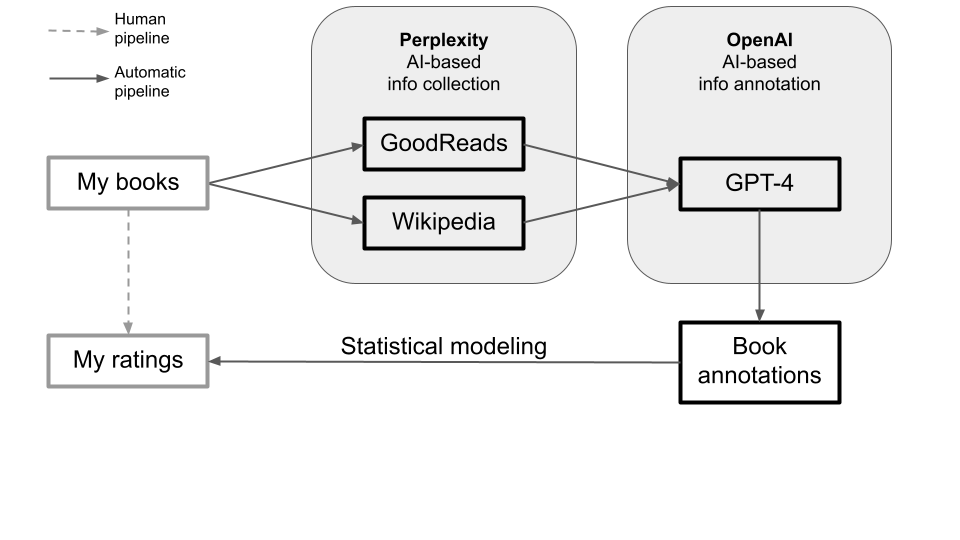
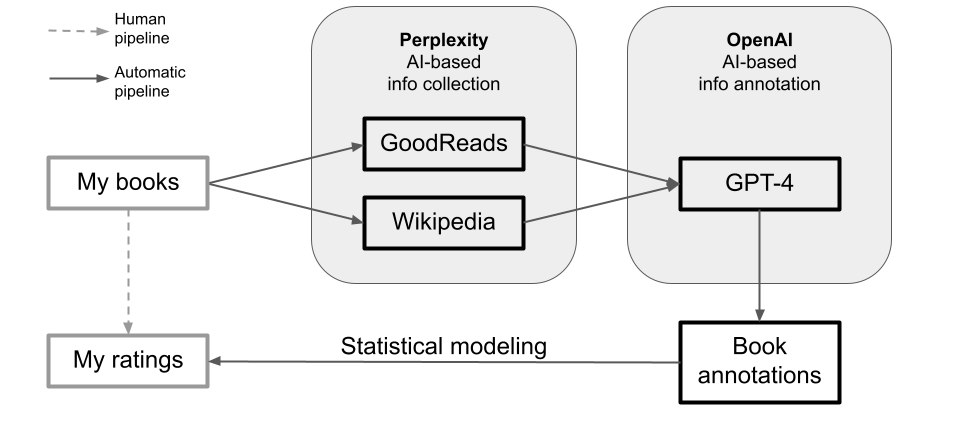
plot replaced

diff --git a/_posts/2025-02-02-What type of books do I like.md b/_posts/2025-02-02-What type of books do I like.md
@@ -5,25 +5,25 @@ tags: [Fiction, Writing, Psychological Theory]
 excerpt: "Analyzing patterns in my own reading enjoyment"
 ---
 
-Despite keeping track of my own book ratings and writing short reviews for every book that I read (incl. DNFs), I find it difficult to pinpoint my own literary preferences.
+Despite keeping track of my own book ratings and writing short reviews for every book that I read (including DNFs), I find it difficult to pinpoint my own literary preferences.
 
-I am not alone in this as many people have no personal niche, and often struggle to decide which book would likely make for an enjoyable read.
+Like many readers, I don't thinkt that I have a preferred niche, which would make the process of finding enjoyable reads much easier.
 
 With about a hundred book ratings in my spreadsheet, I started to look for statistical patterns. Specifically, I built an AI-enhanced pipeline to discover regularities in my reading enjoyment.
 
 <img src="{{site.baseurl}}/assets/isaac_flowchart.png">
 <i>The ISAAC pipeline retrieves book-relevant information from the internet, feeds this information into an LLM prompt which outputs binary labels for a range of predetermined book dimensions (e.g., target groups, themes, attributes of main characters).</i>
 
-The AI pipeline worked very well, and I could now examine how individual book characteristics predict my reading enjoyment. Unfortunately, most effects were rather small and uncertainty remained large. This was to be expected, as many book characteristics have only appeared a handfull of times in the books I have read/rated.
+The AI pipeline worked very well, and allowed me to examine how individual book characteristics predict my reading enjoyment. Unfortunately, most effects were rather small and uncertainty remained large. This was to be expected, as many book characteristics have only appeared a handfull of times in the books I have read/rated.
 
-<img src="{{site.baseurl}}/assets/isaac_effect sizes.png">
-<i></i>
+<img src="{{site.baseurl}}/assets/isaac_effect_sizes.png">
+<i>The point estimates show correlations between book annotations and reading enjoyment. Gray bands indicate how the first author judged his own literary preferences based purely on introspection. Number of books is given in parentheses. Error bars are 80% credible intervals from Bayesian simple linear regressions of reading enjoyment on annotations, with Beta(1,1) priors scaled to [-0.5, 0.5] for the focal coefficients and a standardized outcome variable.</i>
 
-I still got some interesting nudges from this analysis (my enjoyment correlates .29 with the mainstream, and maybe I don't dislike the crime genres as much as I had thought). Naturally, I followed up by training a personal book recommendation model.
+I got some interesting nudges from this analysis (my enjoyment correlates .29 with the mainstream, and maybe I don't dislike the crime genres as much as I had thought). Naturally, I followed up by training a personal book recommendation model.
 
 <img src="{{site.baseurl}}/assets/isaac_model performance.png">
-<i></i>
+<i>Left: the Pearson correlation between predicted book rating and actual book rating. Each sample size (X axis) was drawn 30 times via bootstrap sampling and the average model performance is plotted. Right: The top 10 predictors within the full-sample random forest model, ranked according to their error reduction.</i>
 
 It appears like the annotation-based recommendation system works reasonably well, gets better as I continue reading, and definitely beats the baseline heuristics of ranking books based on average review scores or genres.
 
-If you are interested in the full paper (co-authored by Erdem O. Meral), please check it out [here](https://arxiv.org/abs/2503.03300){:target="_blank"} 
+If you are interested in the full paper (co-authored by Erdem O. Meral), please check it out [here.](https://arxiv.org/abs/2503.03300){:target="_blank"} 

diff --git a/_posts/2024-11-15-Are some books better than others - Copy.md b/_posts/2024-11-15-Are some books better than others - Copy.md
@@ -20,11 +20,11 @@ As an aspiring writer, this was certainly a sobering insight. You can't get ever
 In fact, it's guaranteed that, for every book, there are readers who absolutely loathe it.
 I could now verify this industry wisdom with my own eyes, using my own dataset.
 
-We ran an additional analysis, checking whether people at least describe similar strengths and weaknesses when reviewing a book, but again, it seems like readers mostly talk about their enduing pet peeves.
+We ran an additional analysis, checking whether people at least describe similar strengths and weaknesses when reviewing a book, but again, it seems like readers mostly talk about their personal pet peeves.
 
 <img src="{{site.baseurl}}/assets/review_issue_agreement.png">
 
 <i>The X axis shows various topics that were brought up in book reviews. The Y axis shows how much more likely it is that a review mentions this topic if it was mentioned in a reference review (i.e., 
 Probability(Topic | mentioned in reference) / Probability(Topic | not mentioned in reference). For instance, the black triangular point on the left indicates that a review is twice as likely to mention that the reviewer felt addicted to the book, if the same reviewer made that claim about a different (randomly chosen) book. The gray circle below the triangle indicates that a review is about 1.5 times more likely to contain ‘feeling addicted’ if another (randomly chosen) reviewer made that statement about the same book.</i>
 
-If you are interested in the full paper, check it out [here](https://arxiv.org/abs/2503.02671){:target="_blank"} 
+If you are interested in the full paper, check it out [here.](https://arxiv.org/abs/2503.02671){:target="_blank"} 
